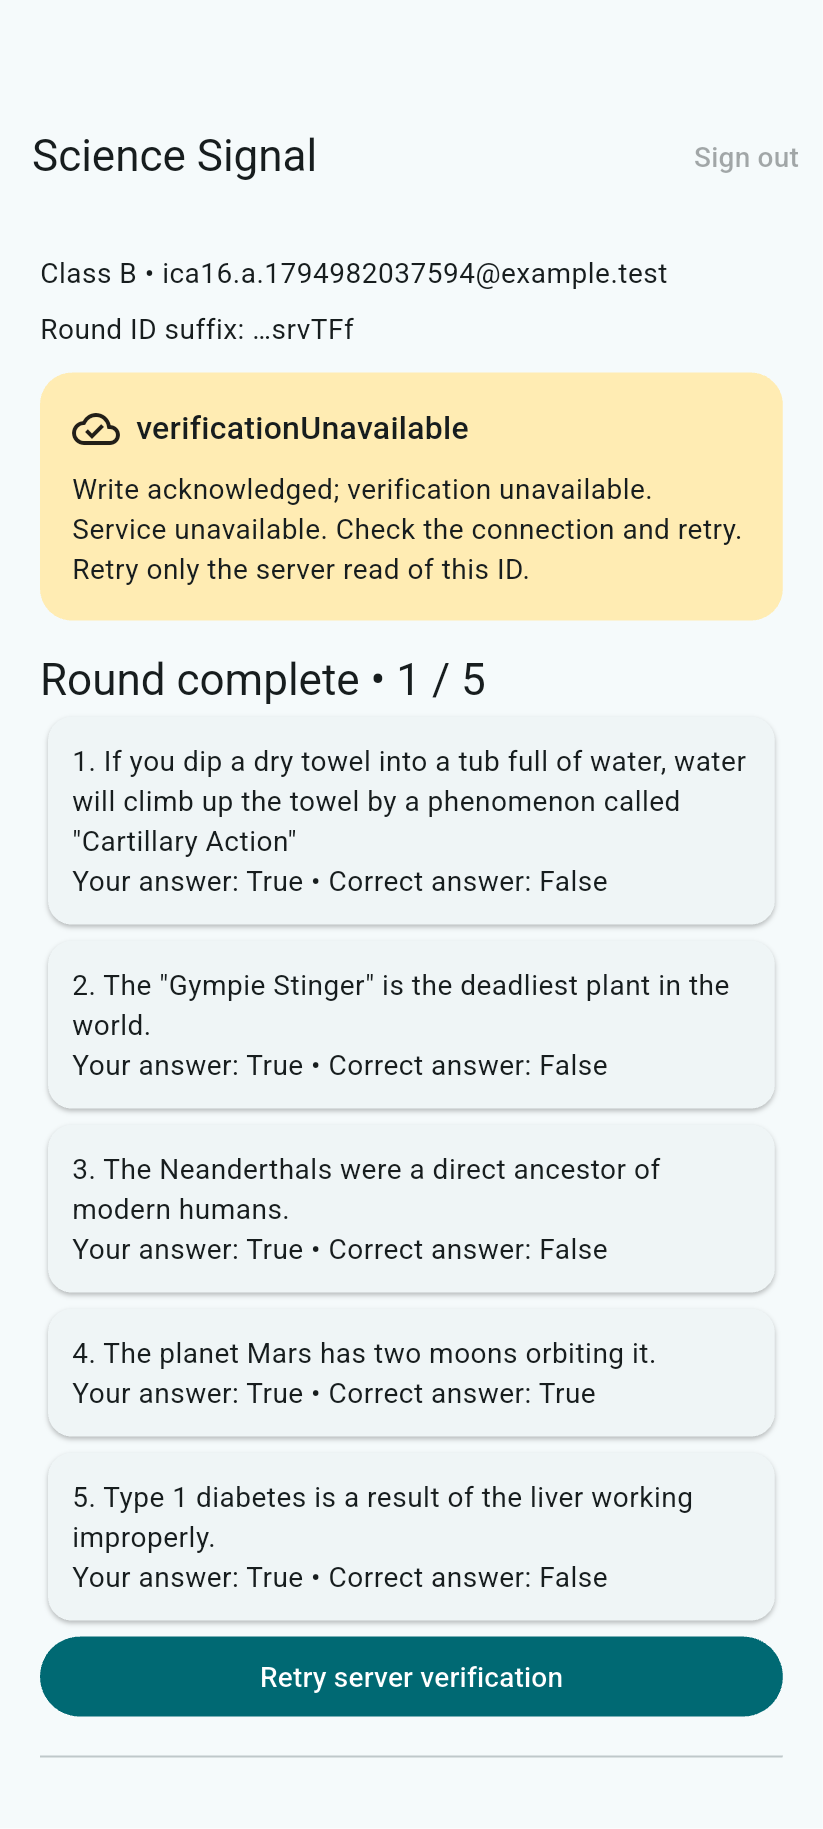
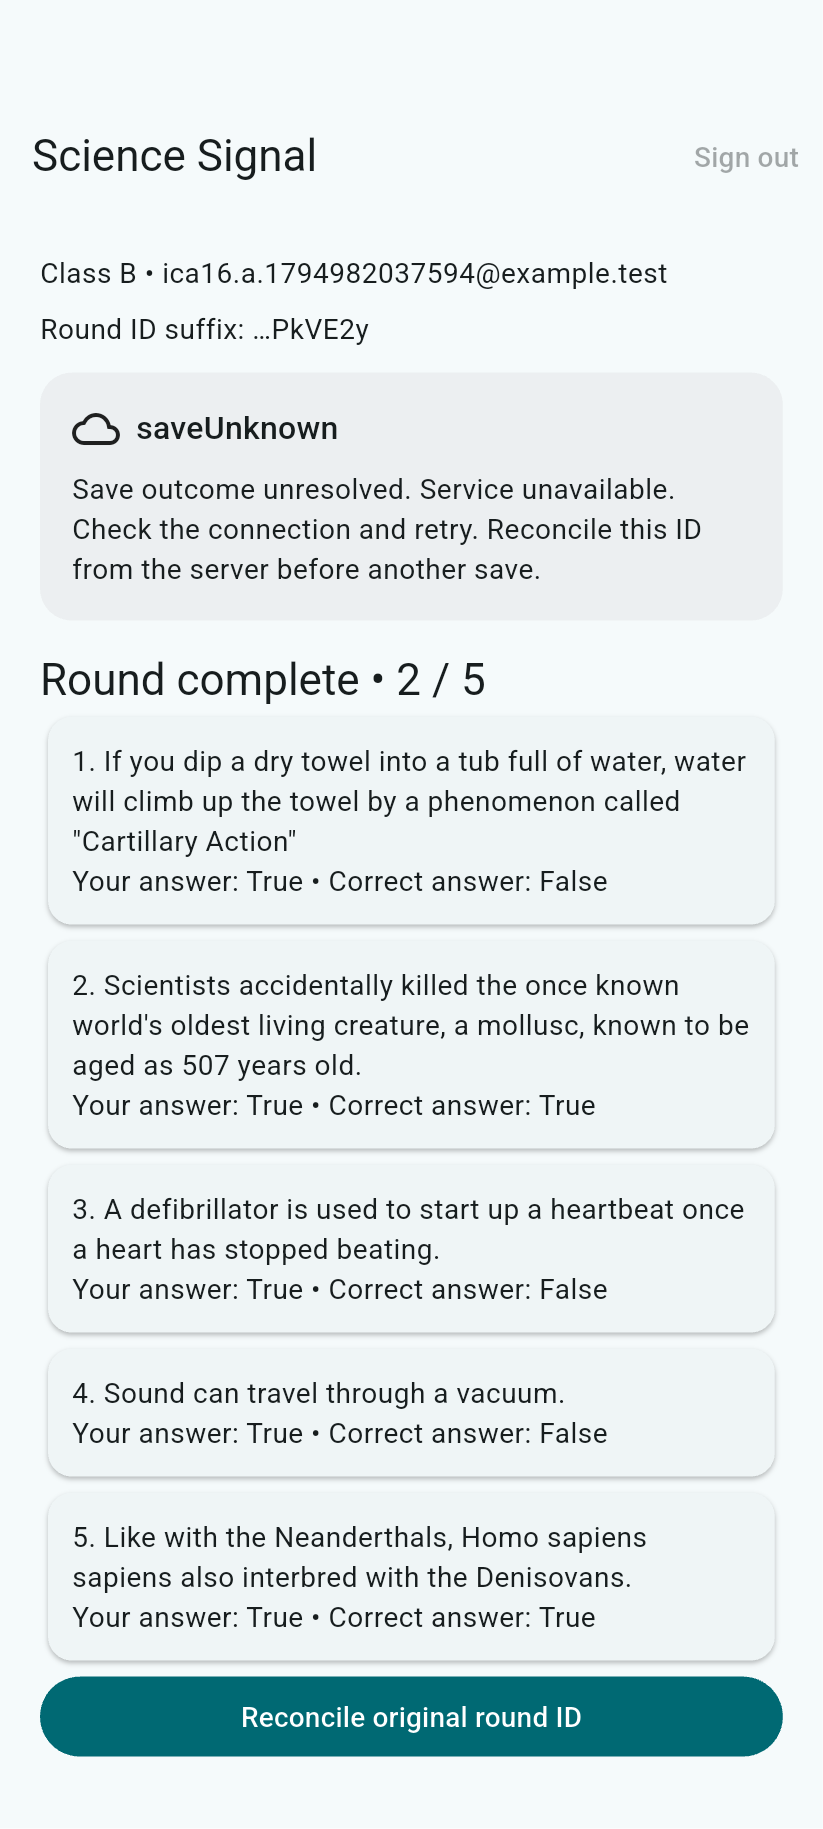
test: prove offline recovery with actual device connectivity disabled

Changed region(s): [[0.0304, 0.5298, 0.9721, 0.9661], [0.0304, 0.1558, 0.9721, 0.374], [0.8505, 0.6545, 0.8809, 0.6856]]

diff --git a/integration_test/offline_test.dart b/integration_test/offline_test.dart
@@ -1,0 +1,108 @@
+import 'dart:async';
+import 'dart:io';
+import 'dart:ui' as ui;
+
+import 'package:firebase_auth/firebase_auth.dart';
+import 'package:flutter/material.dart';
+import 'package:flutter/rendering.dart';
+import 'package:flutter_test/flutter_test.dart';
+import 'package:integration_test/integration_test.dart';
+import 'package:science_signal_16/main.dart';
+import 'package:science_signal_16/round_controller.dart';
+
+void main() {
+  final binding = IntegrationTestWidgetsFlutterBinding.ensureInitialized();
+  testWidgets('T08 actual Wi-Fi and mobile-data outage', (tester) async {
+    await initializeCloud();
+    await FirebaseAuth.instance.signInWithEmailAndPassword(
+      email: const String.fromEnvironment('TEST_A_EMAIL'),
+      password: const String.fromEnvironment('TEST_A_PASSWORD'),
+    );
+    RoundController? c;
+    runApp(ScienceApp(onController: (v) => c = v));
+    Future<void> until(bool Function() predicate, {int seconds = 35}) async {
+      final end = DateTime.now().add(Duration(seconds: seconds));
+      while (!predicate()) {
+        if (DateTime.now().isAfter(end))
+          fail('Offline test timeout: ${c?.phase.name}');
+        await tester.pump(const Duration(milliseconds: 100));
+        await tester.runAsync(
+          () => Future<void>.delayed(const Duration(milliseconds: 100)),
+        );
+      }
+      await tester.pump();
+    }
+
+    Future<void> shot(String name) async {
+      await tester.pump(const Duration(milliseconds: 300));
+      await tester.runAsync(() async {
+        final b = tester.renderObject<RenderRepaintBoundary>(
+          find.byKey(const Key('capture-root')),
+        );
+        final image = await b.toImage(pixelRatio: 2);
+        final bytes = (await image.toByteData(format: ui.ImageByteFormat.png))!
+            .buffer
+            .asUint8List();
+        binding.reportData ??= {};
+        (binding.reportData!['screenshots'] ??= <dynamic>[]).add({
+          'screenshotName': name,
+          'bytes': bytes.toList(),
+        });
+        image.dispose();
+      });
+    }
+
+    await until(() => c != null);
+    await tester.runAsync(() => c!.start());
+    expect(c!.phase, Phase.playing, reason: c!.message);
+    for (var i = 0; i < 5; i++) {
+      c!.choose('True');
+      c!.next();
+    }
+    await tester.pump();
+    final id = c!.roundId!;
+    const dir = '/data/user/0/com.campusdesk.science_signal_16/cache';
+    File('$dir/ica16-off-request').writeAsStringSync('request');
+    await until(() => File('$dir/ica16-off-confirmed').existsSync());
+    final operation = c!.submit();
+    await until(
+      () => c!.phase == Phase.saveUnknown || !c!.inFlight,
+      seconds: 25,
+    );
+    expect(c!.phase, isNot(Phase.cloudVerified));
+    expect(
+      c!.acknowledged,
+      false,
+      reason: 'A transaction must not be acknowledged while the device has no network.',
+    );
+    expect(c!.roundId, id);
+    await shot('T08-offline');
+    File('$dir/ica16-on-request').writeAsStringSync('request');
+    await until(() => File('$dir/ica16-on-confirmed').existsSync());
+    await operation;
+    await tester.runAsync(() => c!.reconcile());
+    if (c!.phase == Phase.readyToSubmit)
+      await tester.runAsync(() => c!.submit());
+    expect(c!.phase, Phase.cloudVerified, reason: c!.message);
+    expect(c!.roundId, id);
+    await tester.pump();
+    await shot('T08-recovered');
+    binding.reportData!.addAll({
+      'stage': 'physical-offline',
+      'records': [
+        {
+          'id': 'T08',
+          'timestamp': DateTime.now().toUtc().toIso8601String(),
+          'precondition': 'Completed unsaved live quiz; actual Wi-Fi and mobile data disabled by external device test controller; no active default network',
+          'action': 'Submit with device disconnected; restore both network connections; reconcile and retry the original ID',
+          'expected': 'No acknowledgement or cloud verification while offline; one recovered original-ID record after reconnect',
+          'actual': 'Offline attempt remained unacknowledged and unresolved; reconnect plus original-ID reconciliation and retry produced a real server-verified document',
+          'result': 'PASS',
+          'roundSuffix': id.substring(id.length - 6),
+          'evidence': 'T08-offline.png; T08-recovered.png; T08-device-network-control.json',
+        },
+      ],
+      'trace': c!.trace,
+    });
+  }, timeout: const Timeout(Duration(minutes: 3)));
+}

diff --git a/tools/network_test.py b/tools/network_test.py
@@ -1,0 +1,27 @@
+import subprocess as s,time,json
+from pathlib import Path
+root=Path(__file__).resolve().parents[1]
+adb=str(Path.home()/'Library/Android/sdk/platform-tools/adb');pkg='com.campusdesk.science_signal_16'
+def sh(*args):return s.run([adb,'shell',*args],capture_output=True,text=True)
+def flag(name):return sh('run-as',pkg,'test','-f','cache/ica16-'+name).returncode==0
+def mark(name):sh('run-as',pkg,'touch','cache/ica16-'+name)
+records=[]
+def record(event):records.append({'event':event,'timestamp':__import__('datetime').datetime.now(__import__('datetime').timezone.utc).isoformat()})
+try:
+ deadline=time.monotonic()+150
+ while not flag('off-request'):
+  if time.monotonic()>deadline:raise RuntimeError('No offline test request received')
+  time.sleep(.3)
+ sh('svc','wifi','disable');sh('svc','data','disable');time.sleep(1)
+ connectivity=sh('dumpsys','connectivity').stdout
+ active=next((line.strip() for line in connectivity.splitlines() if 'Active default network:' in line),'not reported')
+ record('Wi-Fi and mobile data disabled; '+active);mark('off-confirmed')
+ deadline=time.monotonic()+35
+ while not flag('on-request'):
+  if time.monotonic()>deadline:raise RuntimeError('Offline safety limit reached')
+  time.sleep(.3)
+ sh('svc','wifi','enable');sh('svc','data','enable');time.sleep(2);record('Wi-Fi and mobile data restored');mark('on-confirmed')
+ print('Actual device networking disabled and restored for T08.',flush=True)
+finally:
+ sh('svc','wifi','enable');sh('svc','data','enable')
+ (root/'evidence/T08-device-network-control.json').write_text(json.dumps(records,indent=2))

diff --git a/README.md b/README.md
@@ -72,6 +72,8 @@ flutter build apk --release --dart-define-from-file=/private/path/build-defines.
 
 The private test-defines file also supplies TEST_A_EMAIL, TEST_A_PASSWORD, TEST_A_UID, TEST_B_EMAIL, TEST_B_PASSWORD and TEST_B_UID. These are test-run inputs, not application constants or committed credentials. The driver keeps the exact retrieval ID in a private run file and writes only redacted public records. Captures are raster images of the actual Flutter interface running on the Android emulator.
 
+T08 is additionally verified with actual device connectivity disabled by tools/network_test.py, not merely the Firestore SDK network toggle. Start that controller in a separate terminal, then run integration_test/offline_test.dart using the same driver and private test-defines. It restores Wi-Fi and mobile data in a finally block and imposes an offline safety limit. The corrected record is in physical-offline-results.json.
+
 T01–T12 records, state traces, actual encoded/decoded pair, deployed-rule evidence, and server records are in `evidence/`. The evidence document contains all six 120–180 word responses and the instructor-candidate critique. Graduate extensions are not claimed.
 
 ## Build and delivery
